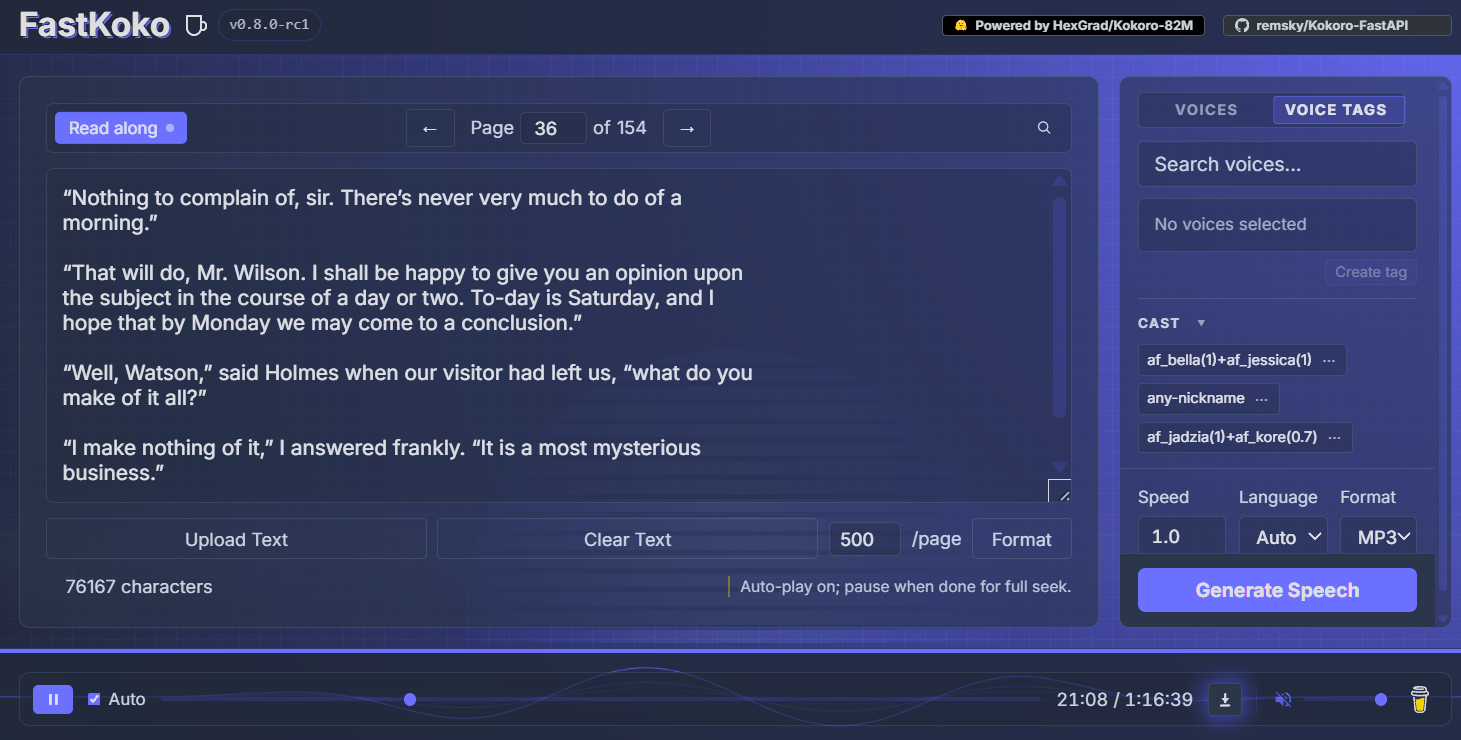
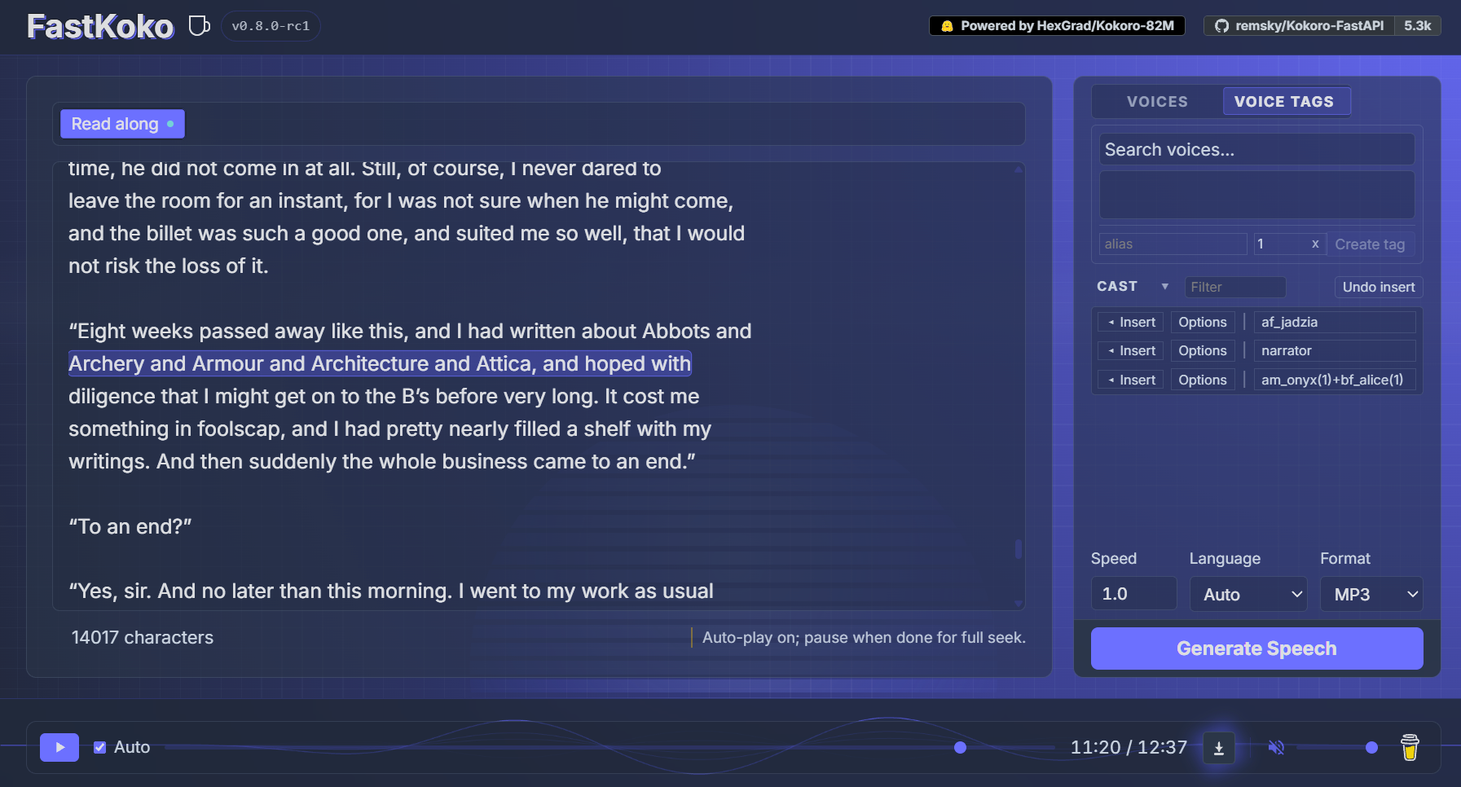
fix(ssml, web):  SSML root validation, rate validation in VoiceSelector

Changed region(s): [[0.0, 0.0, 1.0, 0.9946], [0.0308, 0.1243, 0.5236, 0.6838], [0.0308, 0.7149, 0.4928, 0.8392]]

diff --git a/web/src/components/VoiceSelector.js b/web/src/components/VoiceSelector.js
@@ -376,7 +376,7 @@ export class VoiceSelector {
     }
 
     insertMember(name) {
-        if (this.editing) {
+        if (this.editing && !this.rateOutOfBounds()) {
             this.handlers.onCommit?.(this.elements.createTagRate?.value);
         }
         this.handlers.onInsert?.(name);
@@ -397,6 +397,11 @@ export class VoiceSelector {
         });
     }
 
+    rateOutOfBounds() {
+        const validity = this.elements.createTagRate?.validity;
+        return !!validity && (validity.badInput || validity.rangeUnderflow || validity.rangeOverflow);
+    }
+
     updateCreateTagButton() {
         this.syncSuggestedName();
         const button = this.elements.createTagBtn;
@@ -405,8 +410,13 @@ export class VoiceSelector {
         }
 
         const mix = this.voiceService.getSelectedVoiceString();
-        button.disabled = !mix;
+        const badRate = this.rateOutOfBounds();
+        button.disabled = !mix || badRate;
         button.textContent = this.editing ? 'Save mix' : 'Create tag';
+        if (badRate) {
+            button.title = 'Speed must be between 0.25 and 4';
+            return;
+        }
         if (this.editing) {
             button.title = mix ? `Retune ${this.editing}` : 'Mix one or more voices first';
             return;

diff --git a/web/src/voiceTags.js b/web/src/voiceTags.js
@@ -161,11 +161,16 @@ export function parseCastFile(data) {
     return Object.entries(aliases)
         .map(([name, value]) => {
             const plain = typeof value === 'string';
+            const pace = plain ? undefined : value?.rate;
+            const rate = normalizeRate(pace);
+            if (pace != null && rate === undefined && parseFloat(pace) !== 1) {
+                return null;
+            }
             const mix = plain ? value : String(value?.voice ?? '');
-            const rate = plain ? undefined : normalizeRate(value?.rate);
             return { name: String(name).trim(), mix: mix.trim(), ...(rate ? { rate } : {}) };
         })
-        .filter(({ name, mix }) => mix && (name === mix || CAST_NAME_PATTERN.test(name)));
+        .filter((member) => member && member.mix
+            && (member.name === member.mix || CAST_NAME_PATTERN.test(member.name)));
 }
 
 /** parseVoiceMix drops empty +-parts, so speakability is judged before that smoothing hides them. */

diff --git a/web/styles/voices.css b/web/styles/voices.css
@@ -476,6 +476,11 @@
     color: var(--text);
 }
 
+.cast-rate:user-invalid {
+    border-color: var(--error);
+    color: var(--error);
+}
+
 .create-tag-name {
     flex: 1;
     min-width: 0;

diff --git a/scripts/update_badges.py b/scripts/update_badges.py
@@ -75,12 +75,12 @@ def update_readme_badges(passed_tests, coverage_percentage, dep_info):
         print("README.md not found")
         return False
 
-    content = readme_path.read_text()
+    content = readme_path.read_text(encoding="utf-8")
 
     # Update tests badge
     content = re.sub(
-        r"!\[Tests\]\(https://img\.shields\.io/badge/tests-\d+%20passed-[a-zA-Z]+\)",
-        f"![Tests](https://img.shields.io/badge/tests-{passed_tests}%20passed-darkgreen)",
+        r"!\[Tests\]\(https://img\.shields\.io/badge/tests-\d+-[a-zA-Z]+\)",
+        f"![Tests](https://img.shields.io/badge/tests-{passed_tests}-darkgreen)",
         content,
     )
 
@@ -111,7 +111,7 @@ def update_readme_badges(passed_tests, coverage_percentage, dep_info):
             content,
         )
 
-    readme_path.write_text(content)
+    readme_path.write_text(content, encoding="utf-8")
     return True
 
 

diff --git a/api/tests/test_ssml.py b/api/tests/test_ssml.py
@@ -21,6 +21,17 @@ def test_plain_text_passthrough():
     assert translate_ssml("[pause:1s] native tags untouched") == "[pause:1s] native tags untouched"
 
 
+def test_roots_merely_starting_with_speak_pass_through():
+    """<speaker> is not SSML, only an exact <speak> root may be translated."""
+    for text in ("<speaker>Hello</speaker>", "<speak-notes>Hello</speak-notes>"):
+        assert translate_ssml(text) == text
+
+
+def test_namespaced_speak_root_still_translates():
+    ssml = '<speak xmlns="http://www.w3.org/2001/10/synthesis">Hi<break time="1s"/>there</speak>'
+    assert translate_ssml(ssml) == "Hi [pause:1.0s] there"
+
+
 def test_break_time_and_strength():
     assert translate_ssml('<speak>Hi<break time="750ms"/>there</speak>') == "Hi [pause:0.75s] there"
     assert translate_ssml('<speak>Hi<break time="1.5s"/>there</speak>') == "Hi [pause:1.5s] there"

diff --git a/api/src/services/text_processing/ssml.py b/api/src/services/text_processing/ssml.py
@@ -161,7 +161,7 @@ def translate_ssml(
     if body[:9].upper() == "<!DOCTYPE":
         raise ET.ParseError("DTD is not supported")
     # the spec requires a <speak> root, so anything else is plain text
-    if not body.startswith("<speak"):
+    if not re.match(r"<speak[\s/>]", body):
         return text
     root = ET.fromstring(text)
 

diff --git a/README.md b/README.md
@@ -3,7 +3,7 @@
 
 <a href="https://trendshift.io/repositories/13745?utm_source=repository-badge&amp;utm_medium=badge&amp;utm_campaign=badge-repository-13745"><img src="https://trendshift.io/api/badge/repositories/13745" alt="remsky%2FKokoro-FastAPI | Trendshift" width="164" height="36"/></a>
 
-[![Changelog](https://img.shields.io/badge/changelog-white)](./CHANGELOG.md) [![Tests](https://img.shields.io/badge/tests-253-darkgreen)]()
+[![Changelog](https://img.shields.io/badge/changelog-white)](./CHANGELOG.md) [![Tests](https://img.shields.io/badge/tests-257-darkgreen)]()
 [![Coverage](https://img.shields.io/badge/coverage-68%25-tan)]()
 
 [![Kokoro](https://img.shields.io/badge/kokoro-0.9.4-BB5420)](https://github.com/hexgrad/kokoro)
@@ -44,32 +44,32 @@ Pre-built multi-arch images with models baked in.
 
 `:latest` is available, but please pin to a release tag for stable usage.
 
-**No GPU** (laptop, CPU-only server)
+<sub><ins>**No GPU**</ins> (laptop, CPU-only server)</sub>
 ```bash
 docker run -p 8880:8880 ghcr.io/remsky/kokoro-fastapi-cpu:latest
 ```
 
-**NVIDIA** (GTX 900-series through RTX 40; ships cu126)
+<sub><ins>**NVIDIA**</ins> (GTX 900-series through RTX 40; ships cu126)</sub>
 ```bash
 docker run --gpus all -p 8880:8880 ghcr.io/remsky/kokoro-fastapi-gpu:latest
 ```
 
-**NVIDIA RTX 50-series / Blackwell** (ships cu128)
+<sub><ins>**NVIDIA RTX 50-series / Blackwell**</ins> (ships cu128)</sub>
 ```bash
 docker run --gpus all -p 8880:8880 ghcr.io/remsky/kokoro-fastapi-gpu:latest-cu128
 ```
 
-**NVIDIA arm64** (Jetson, GH200; same tag, ships cu129)
+<sub><ins>**NVIDIA arm64**</ins> (Jetson, GH200; same tag, ships cu129)</sub>
 ```bash
 docker run --gpus all -p 8880:8880 ghcr.io/remsky/kokoro-fastapi-gpu:latest
 ```
 
-**AMD GPU** (ROCm, experimental, x86_64 only)
+<sub><ins>**AMD GPU**</ins> (ROCm, experimental, x86_64 only)</sub>
 ```bash
 docker run --device=/dev/kfd --device=/dev/dri -p 8880:8880 ghcr.io/remsky/kokoro-fastapi-rocm:latest
 ```
 
-**Apple Silicon** (native MPS, from a clone; the CPU image also works in Docker)
+<sub><ins>**Apple Silicon**</ins> (native MPS clone; the CPU image also works)</sub>
 ```bash
 ./start-gpu_mac.sh
 ```
@@ -163,8 +163,8 @@ with client.audio.speech.with_streaming_response.create(
 - Web Interface: http://localhost:8880/web
 
 <div align="center">
-  <img src="assets/webui-screenshot.png" width="52.9%" alt="Web UI Screenshot">
-  <img src="assets/docs-screenshot.png" width="45.1%" alt="API Documentation">
+  <img src="assets/webui-screenshot.png" width="51.4%" alt="Web UI Screenshot">
+  <img src="assets/docs-screenshot.png" width="46.6%" alt="API Documentation">
 </div>
 
 </details>
